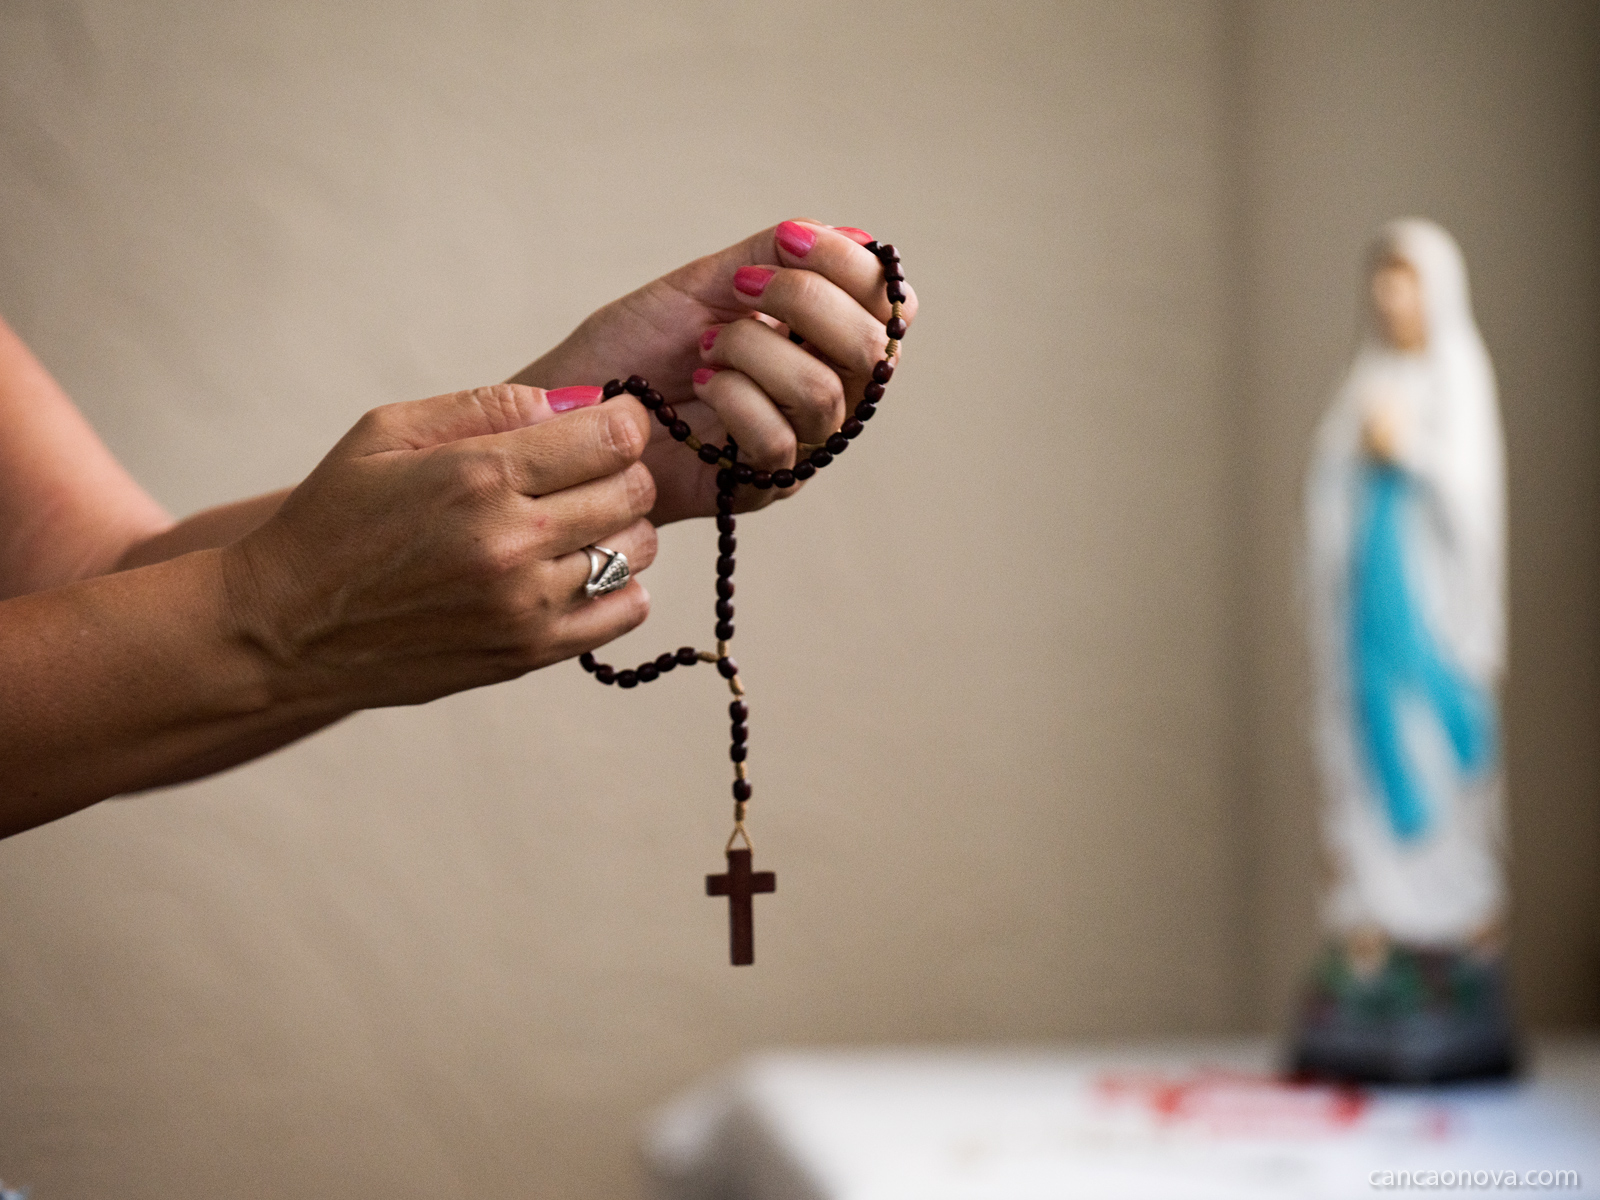
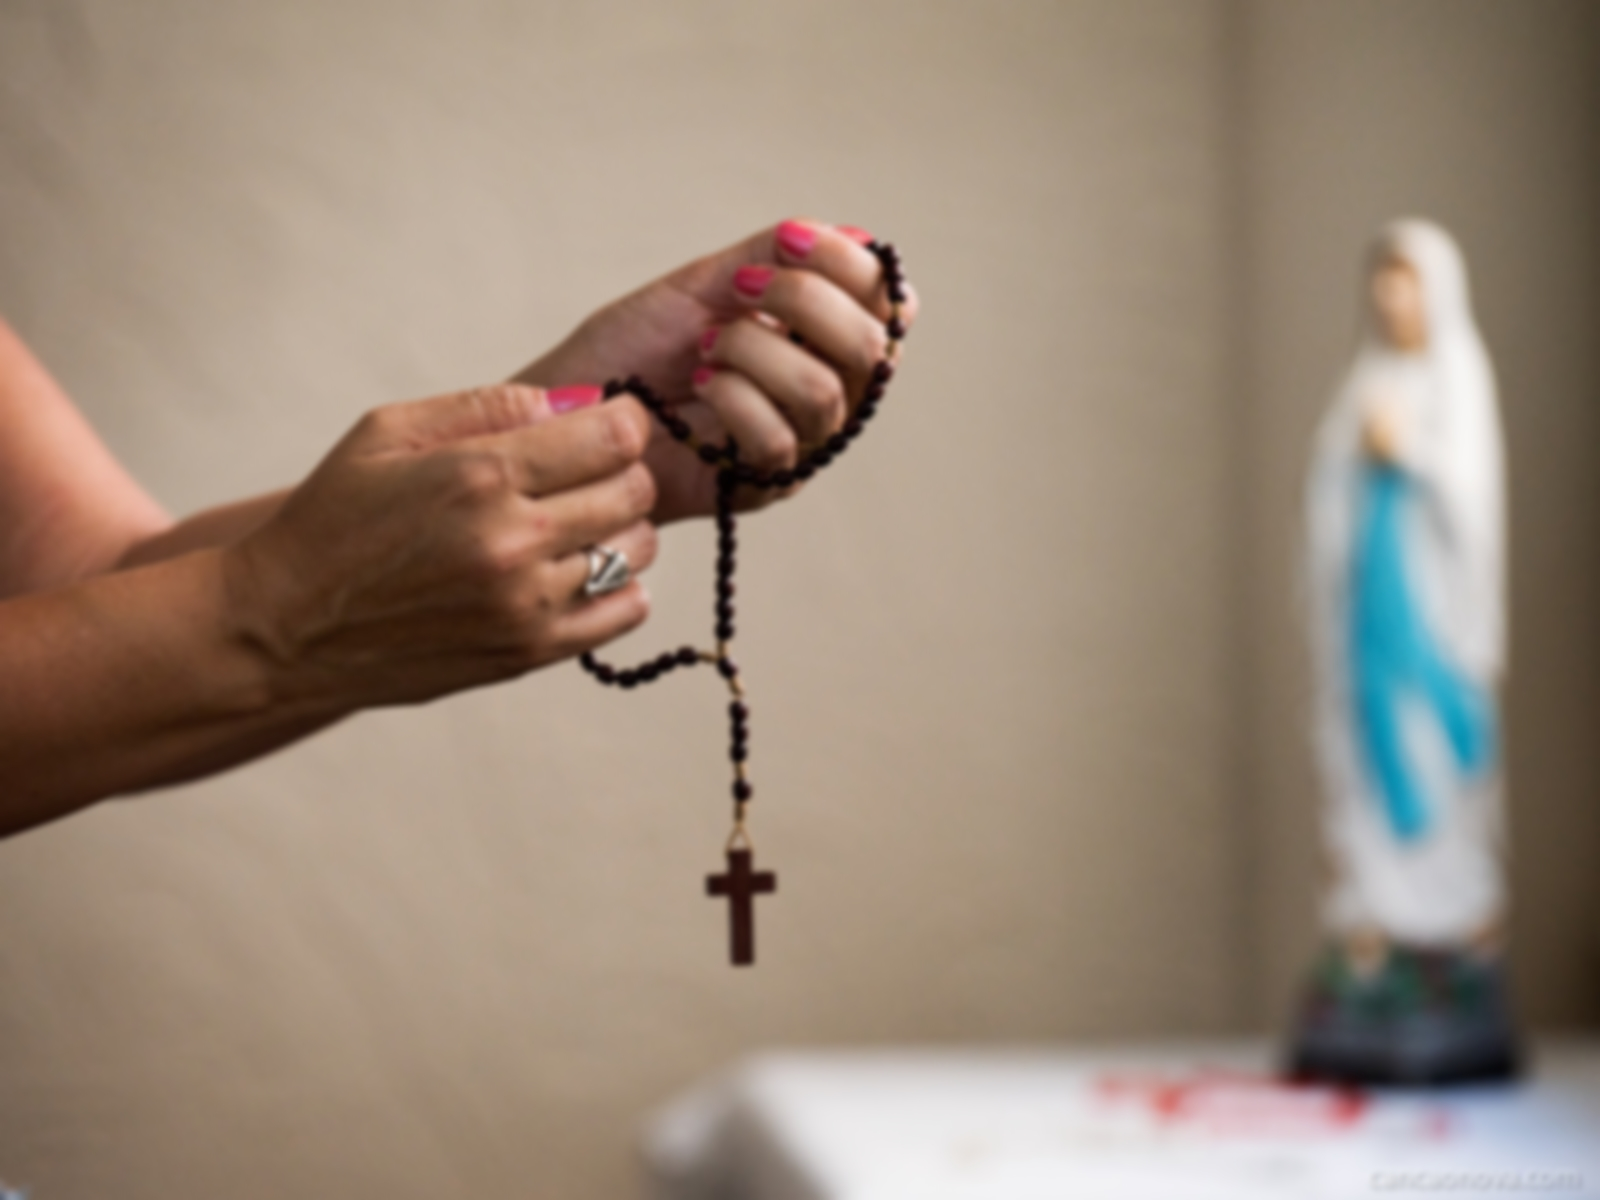
desfoque foto de fundo

diff --git a/src/app/terco-sobre/terco-sobre.component.html b/src/app/terco-sobre/terco-sobre.component.html
@@ -27,5 +27,7 @@
             <br><a target="_blank" href="https://pt.wikipedia.org/wiki/Rosário_(catolicismo)">Saiba mais</a>
         </h4>
     </div>
+    <div class="row">
+        <app-footer></app-footer>
+    </div>
 </div>
-<app-footer> </app-footer>
